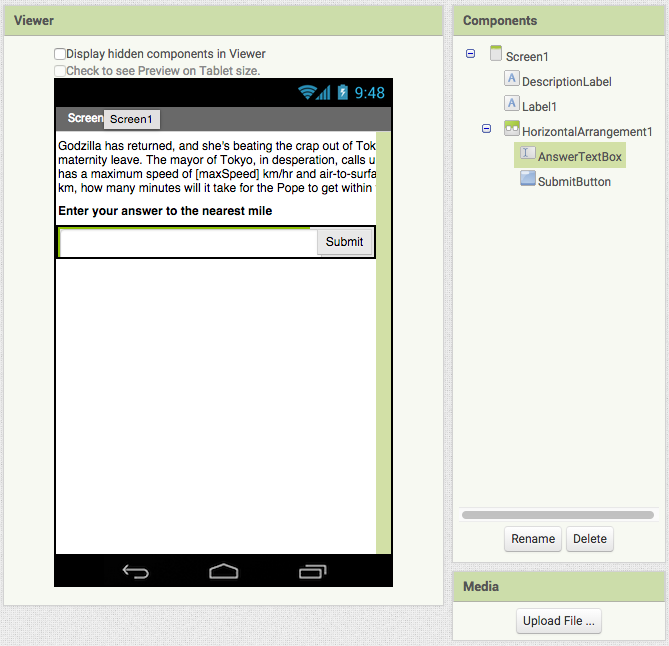
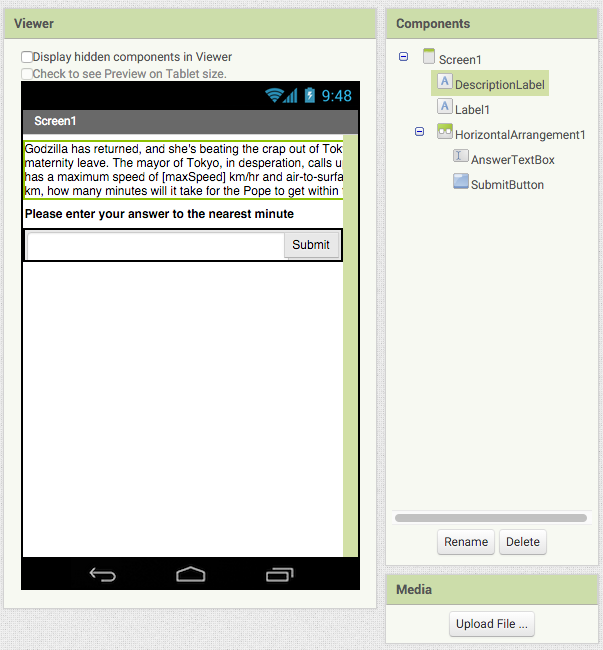
Fix typos and improve clarity in math chapter

diff --git a/math/index.rst b/math/index.rst
@@ -38,14 +38,7 @@ refresh.
 
   .. exercisehint:: You will probably want to use a local variable, an else ``if`` block, and the ``absolute`` block.
 
-When it comes to math, there is much more than just numerical
-computations. We can also use make a randomized word problem! Create a
-new project called "Popejet" and make the screen look like this:
-
-.. image:: popejet-designer.png
-
-The text is kinda long, so you might want to copy and paste it into App
-Inventor:
+App Inventor can be used for much more than just numerical computation problems. You can also use it to make randomized word problems! Here's the word problem we will implement:
 
     Godzilla has returned, and she's beating the crap out of Tokyo
     (again)! Unluckily for Tokyo, there isn't anyone around to stop her,
@@ -58,30 +51,39 @@ Inventor:
     between the Vatican and Tokyo is 9,850 km, how many minutes will it
     take for the Pope to get within targeting distance of Godzilla?
 
+Create a new project called "Popejet" and make the screen look like this:
+
+.. image:: popejet-designer.png
+
 Note here that we didn't split up the description into separate labels.
 This would be awkward because of how long the description label needs to
 be to hold all that text. Instead, you can put the variable names inside
-square brackets, and just replace the variables with their values inside
-a ``Screen1.Initialize`` block:
+square brackets, and then, inside the ``Screen1.Initialize`` block, replace the variable names with their numerical values:
 
 .. image:: popejet-blocks.png
 
+Run the app to see that both [maxSpeed] and [missileRange] are replaced with random numbers in the description label.
+
 .. exercise:: Add the logic in Blocks to check that the user submitted the correct
-  answer to the problem. Keep this equation in mind as you figure out how
-  to put together the blocks to compute the answer: ``maxSpeed * timeInHours - missileRange = 9850``
+  answer to the problem. To compute the answer, you need to consider this equation:
+
+  ``maxSpeed * timeInHours - missileRange = 9850``
+
+  .. exercisehint:: Don't forget to convert hours to minutes.
 
   .. exercisehint:: To round to the nearest minute, you'll need to use the ``round`` block, found in the Math group.
 
 .. exercise:: Inside the ``Screen1.Initialize`` block you have a little bit of redundancy.
   Add a new procedure called ``setDescriptionValue`` that takes two
-  inputs, ``segment`` and ``replacement``, which can take the place of a ``set DescriptionLabel.Text`` block. It's not so bad in this program, but if you had a lot of variables in your description you would be very happy to have a procedure that does the heavy lifting for you!
+  inputs, ``segment`` and ``replacement``, which can take the place of a ``set DescriptionLabel.Text`` block.
 
   .. exercisehint::
 
-    This is how you would set up the ``setDescriptionValue`` block:
+    This is how you would begin setting up the ``setDescriptionValue`` procedure block:
 
     .. image:: setDescriptionValue-block.png
 
+  .. exercisehint:: This exercise is quite similar to what you did when following the last video in :doc:`/the-basics/index`.
 
 Congratulations, you've completed all of the core chapters in this
 tutorial. You can now do the other chapters in any order that you like,
